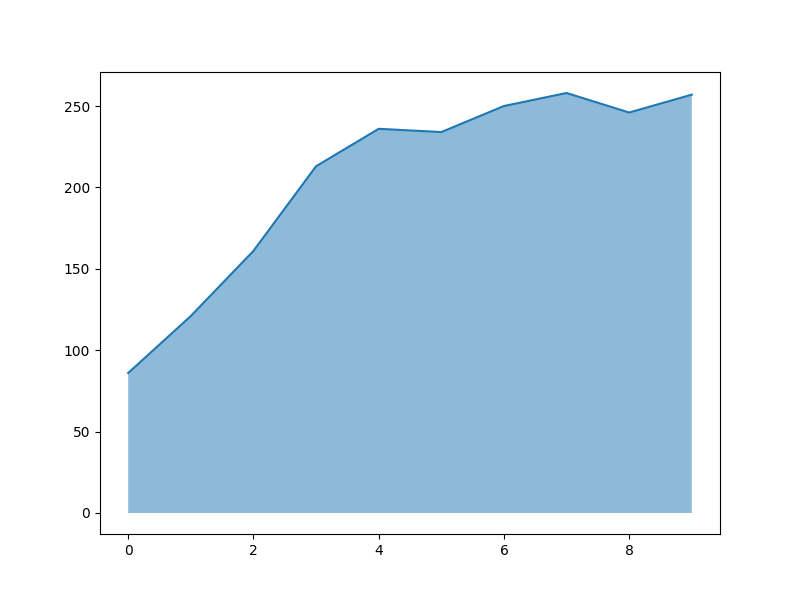
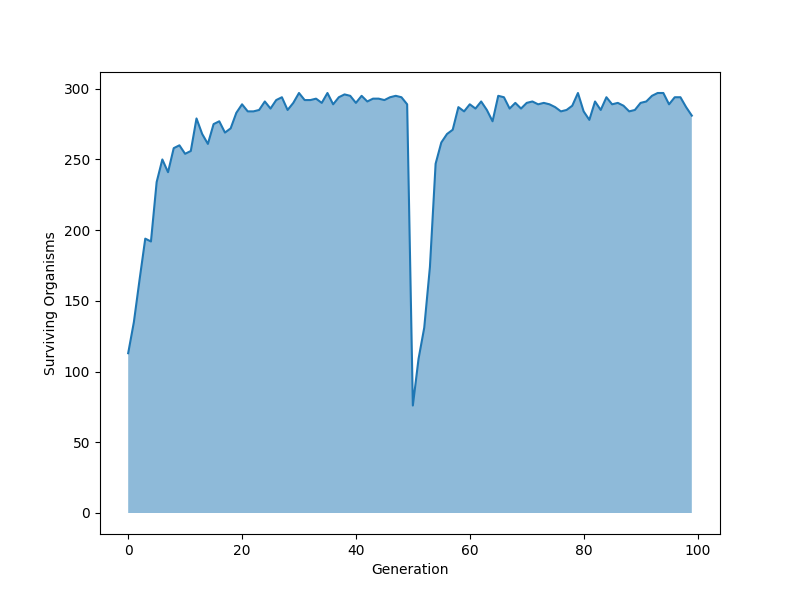
Pre presentation commit

diff --git a/ghevolution/world.py b/ghevolution/world.py
@@ -9,6 +9,7 @@ import neural_network
 import genome
 from dataclasses import dataclass
 from settings import *
+import settings
 import world_view
 from actions import action_funcs
 import numpy as np
@@ -45,6 +46,9 @@ def start_generation(genes, gen_num):
         is_displaying = True
         screen = world_view.init_display()
 
+    if NUM_GENERATIONS // 2 == gen_num:
+        settings.TOP_BOUND = 20
+
     for i in range(STEPS_PER_GEN):
         # we are currying the step function to send more info
         step(brains, positions)
@@ -79,22 +83,32 @@ def get_survivors(brains, positions):
     sorted_genes = sorted(
         surviving_genes, key=surviving_genes.get, reverse=True)
     best_genes = []
-    for i, gene in enumerate(sorted_genes):
-        if i % 2 == 1 and len(best_genes) < NUM_ORGANISMS:
-            (new1, new2) = crossover(sorted_genes[i - 1], gene)
-            best_genes.append(new1)
-            best_genes.append(new2)
+    # for i, gene in enumerate(sorted_genes):
+    #     if i % 2 == 1 and len(best_genes) < NUM_ORGANISMS:
+    #         (new1, new2) = crossover(sorted_genes[i - 1], gene)
+    #         best_genes.append(new1)
+    #         best_genes.append(new2)
 
-    # the above for loop is not guaranteed to fill everything for the next
-    # generation so we just reuse the best genes from the last
-    i = 0
-    while len(best_genes) < NUM_ORGANISMS and i < len(sorted_genes):
-        best_genes.append(sorted_genes[i])
-        i += 1
+    # # the above for loop is not guaranteed to fill everything for the next
+    # # generation so we just reuse the best genes from the last
+    # i = 0
+    # while len(best_genes) < NUM_ORGANISMS and i < len(sorted_genes):
+    #     best_genes.append(sorted_genes[i])
+    #     i += 1
 
-    # If we still need more we just fill it randomly
+    # # If we still need more we just fill it randomly
+    # while len(best_genes) < NUM_ORGANISMS:
+    #     best_genes.append(genome.generate())
     while len(best_genes) < NUM_ORGANISMS:
-        best_genes.append(genome.generate())
+        gene1 = sorted_genes[randrange(len(sorted_genes))]
+        gene2 = sorted_genes[randrange(len(sorted_genes))]
+        (c1, c2) = crossover(gene1, gene2)
+        best_genes.append(c1)
+        best_genes.append(c2)
+
+    for gene in best_genes:
+        if random() < MUTATION_CHANCE:
+            gene = genome.mutate(gene)
 
     # last param is best gene
     return (best_genes, total_survivors, sorted_genes[0])
@@ -106,7 +120,7 @@ def fitness_score(position):
 
 
 def survivor_condition(position):
-    return position.x < LEFT_BOUND and position.y < TOP_BOUND
+    return position.x < LEFT_BOUND and position.y < settings.TOP_BOUND
 
 
 # ITS A GLOBAL var i know but we want performance

diff --git a/ghevolution/world_view.py b/ghevolution/world_view.py
@@ -4,8 +4,8 @@ from turtle import pos
 from matplotlib.pyplot import draw
 import pygame
 
-
 from settings import *
+import settings
 
 black = 0, 0, 0
 display_size = (X_SIZE + 1) * CELL_SIZE, (Y_SIZE + 1) * CELL_SIZE
@@ -26,9 +26,9 @@ def update_display(screen, brains, positions, gen_num):
             sys.exit()
     screen.fill(black)
     pygame.draw.line(screen, (255, 255, 255), (LEFT_BOUND * CELL_SIZE, 0),
-                     (LEFT_BOUND * CELL_SIZE, TOP_BOUND * CELL_SIZE), 2)
-    pygame.draw.line(screen, (255, 255, 255), (0, TOP_BOUND * CELL_SIZE),
-                     (LEFT_BOUND * CELL_SIZE, TOP_BOUND * CELL_SIZE), 2)
+                     (LEFT_BOUND * CELL_SIZE, settings.TOP_BOUND * CELL_SIZE), 2)
+    pygame.draw.line(screen, (255, 255, 255), (0, settings.TOP_BOUND * CELL_SIZE),
+                     (LEFT_BOUND * CELL_SIZE, settings.TOP_BOUND * CELL_SIZE), 2)
 
     text = font.render("Generation: " + str(gen_num), True, (255, 255, 255))
     textRect = text.get_rect()

diff --git a/ghevolution/survivor_plot.py b/ghevolution/survivor_plot.py
@@ -2,11 +2,9 @@ from matplotlib import pyplot as plt
 
 
 def show_gen_survivors(gen_num, survivor_list):
-    ax1 = plt.subplot(5, 5, 2)
-    plt.figure(figsize=(8, 6))
-    plt.fill_between(gen_num, survivor_list, alpha=0.5)
-    plt.plot(gen_num, survivor_list)
-    plt.title = "Survivors vs Generation"
-    plt.xlabel = "Generation Num"
-    plt.ylabel = "Number of Survivors"
+    fig, ax = plt.subplots(figsize=(8, 6))
+    ax.fill_between(gen_num, survivor_list, alpha=0.5)
+    ax.plot(gen_num, survivor_list)
+    ax.set_ylabel("Surviving Organisms")
+    ax.set_xlabel("Generation")
     plt.savefig('survivors_graph.png')

diff --git a/ghevolution/settings.py b/ghevolution/settings.py
@@ -6,17 +6,17 @@ X_SIZE = 100
 WEIGHT_DIV = 10000
 NUM_ORGANISMS = 300
 STEPS_PER_GEN = 300
-CELL_SIZE = 8
-NUM_GENERATIONS = 10
+CELL_SIZE = 10
+NUM_GENERATIONS = 100
 CONN_FORMAT = 'u8u8s16'
 CONN_SIZE = bitstruct.calcsize(CONN_FORMAT)
-CONN_NUM = 3
+CONN_NUM = 4
 TOTAL_BYTES = CONN_SIZE // 8 * CONN_NUM
 INNER_NEURONS = 1
 MUTATION_CHANCE = 0.05
-STEP_DISPLAY_TIME = 10  # millis
-LEFT_BOUND = X_SIZE
-TOP_BOUND = 20
-SHOULD_DISPLAY = False
+STEP_DISPLAY_TIME = 5  # millis
+LEFT_BOUND = 20
+TOP_BOUND = Y_SIZE
+SHOULD_DISPLAY = True
 
 Point = namedtuple("Point", "x, y")

diff --git a/ghevolution/brain_view.py b/ghevolution/brain_view.py
@@ -25,6 +25,6 @@ def draw_brain(gene):
             colors.append('yellow')
         else:
             colors.append('red')
-    plt.subplot(1, 2, 1)
-    nx.draw_planar(g, node_color=colors, **options)
+    fig, ax = plt.subplots(figsize=(8, 6))
+    nx.draw_planar(g, node_color=colors, ax=ax, label="hello", **options)
     plt.savefig('brain_graph.png')
